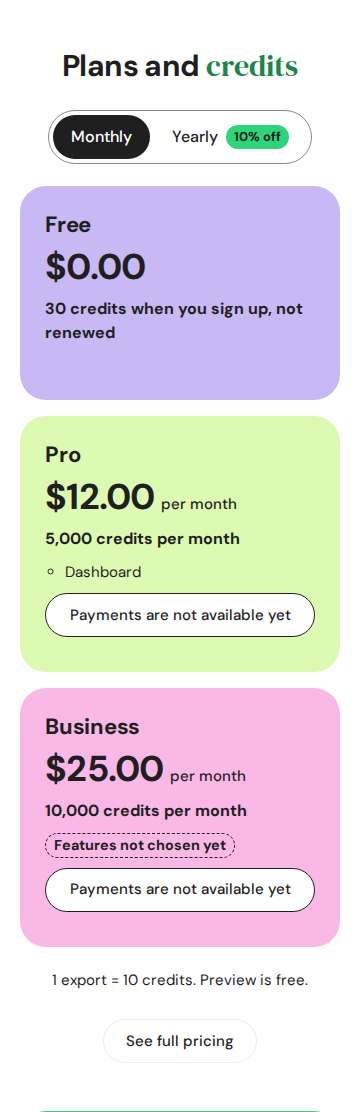
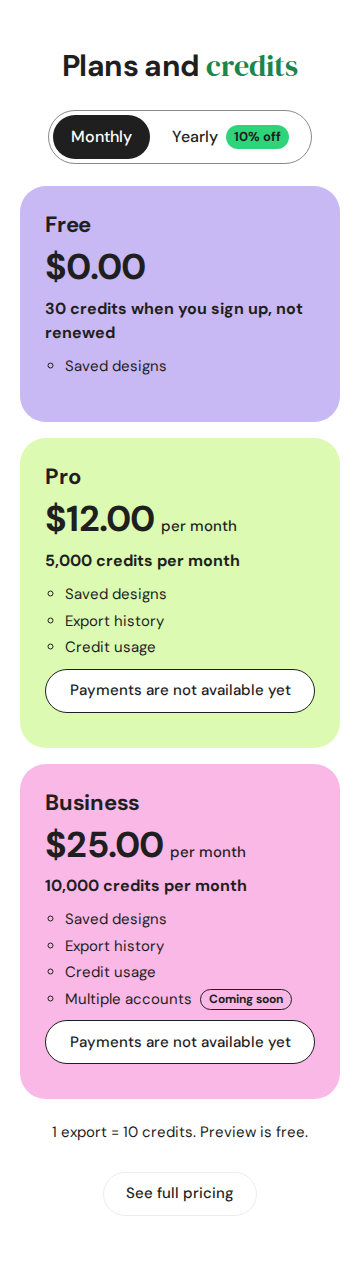
Plan features from config: key, name, coming-soon tag
Free: Saved designs. Pro: + Export history, Credit usage. Business: + Multiple accounts
(Coming soon). The API checks a feature's key; test:pricing checks the names come from
config and are not typed into the pricing components. "Dashboard" is gone.

Claude-Session: https://claude.ai/code/session_01UyZuVeNqbWQ99HSc4PFdeP

Changed region(s): [[0.0306, 0.3058, 0.9472, 0.9478], [0.0306, 0.0306, 0.9472, 0.3058]]

diff --git a/web/src/lib/PlanCards.tsx b/web/src/lib/PlanCards.tsx
@@ -93,7 +93,11 @@ export function PlanCards({ plans, headingLevel = 3 }: { plans: Plans; headingLe
             {plan.features === null
               ? <p className="plan__features-none"><NotChosen what="Features not chosen yet" /></p>
               : plan.features.length > 0 && (
-                <ul className="plan__features">{plan.features.map((f) => <li key={f}>{f}</li>)}</ul>
+                <ul className="plan__features">
+                  {plan.features.map((f) => (
+                    <li key={f.key}>{f.name}{f.status === "coming_soon" && <span className="plan__soon">Coming soon</span>}</li>
+                  ))}
+                </ul>
               )}
             <div className="plan__action"><PlanButton plan={plan} interval={interval} plans={plans} /></div>
           </li>

diff --git a/web/src/css/pricing.css b/web/src/css/pricing.css
@@ -60,7 +60,9 @@
 .plan__amount { font-size: 36px; font-weight: 700; letter-spacing: -0.02em; line-height: 1.1; }
 .plan__per, .plan__equiv { font-size: 15px; font-weight: 500; }
 .plan__credits { font-size: 16px; font-weight: 700; }
-.plan__features { margin: 0; padding-left: 20px; font-size: 15px; }
+.plan__features { margin: 0; padding-left: 20px; font-size: 15px; display: grid; gap: 4px; }
+.plan__soon { display: inline-block; margin-left: 8px; padding: 0 8px; border: 1.5px solid var(--ink); border-radius: var(--radius-pill);
+  font-size: 12px; font-weight: 700; line-height: 1.6; white-space: nowrap; vertical-align: 1px; }
 .plan__action { display: grid; gap: 8px; align-content: end; }
 .plan__cta { width: 100%; }
 .plan__error { font-size: 14px; font-weight: 500; }

diff --git a/web/src/lib/api.ts b/web/src/lib/api.ts
@@ -181,7 +181,8 @@ export type PlanInfo = {
   credits: number | null;
   /** "lifetime" (given once) or "month" (every UTC calendar month). */
   credit_period: string | null;
-  features: string[] | null;
+  /** From config.py; "coming_soon" shows a tag and unlocks nothing yet. null = not chosen. */
+  features: { key: string; name: string; status: "available" | "coming_soon" }[] | null;
 };
 export type Plans = {
   currency: string | null;

diff --git a/api/src/stitchbook_api/plans.py b/api/src/stitchbook_api/plans.py
@@ -67,7 +67,7 @@ def plans(config: Config) -> dict[str, Any]:
     out = []
     for plan in PLAN_IDS:
         monthly = chosen(config, f"billing.plans.{plan}.price_monthly")
-        features = chosen(config, f"billing.plans.{plan}.features")
+        features = plan_features(config, plan)
         priced = monthly is not None and discount is not None
         out.append({
             "id": plan,
@@ -78,7 +78,7 @@ def plans(config: Config) -> dict[str, Any]:
                 ("0.00" if monthly == 0 else None),
             "credits": plan_credits(config, plan),
             "credit_period": chosen(config, "billing.plans.free.credit_period") if plan == "free" else "month",
-            "features": features if isinstance(features, list) else None,
+            "features": features,
         })
     costs = {kind: (chosen(config, f"billing.credit_costs.{kind}")) for kind in operation_kinds(config)}
     packs = chosen(config, "billing.credit_packs")
@@ -96,6 +96,28 @@ def plans(config: Config) -> dict[str, Any]:
     }
 
 
+def plan_features(config: Config, plan: str) -> list[dict[str, str]] | None:
+    """The plan's features from config: [{"key", "name", "status"}] ("available" or
+    "coming_soon"); None while not chosen."""
+    raw = chosen(config, f"billing.plans.{plan}.features")
+    if not isinstance(raw, list):
+        return None
+    out = []
+    for item in raw:
+        if not isinstance(item, dict) or not item.get("key") or not item.get("name"):
+            raise ValueError(f"billing.plans.{plan}.features: every entry needs a key and a name")
+        status = item.get("status", "available")
+        if status not in ("available", "coming_soon"):
+            raise ValueError(f"billing.plans.{plan}.features: unknown status {status!r}")
+        out.append({"key": str(item["key"]), "name": str(item["name"]), "status": status})
+    return out
+
+
+def has_feature(config: Config, plan: str, key: str) -> bool:
+    """True if the plan lists this feature as available (a "coming_soon" one does not count)."""
+    return any(f["key"] == key and f["status"] == "available" for f in plan_features(config, plan) or [])
+
+
 def month_start(now: datetime | None = None) -> datetime:
     """Start of the current UTC calendar month (the plan allowance period)."""
     now = now or datetime.now(timezone.utc)
@@ -107,5 +129,5 @@ def month_end(start: datetime) -> datetime:
     return start.replace(year=start.year + 1, month=1) if start.month == 12 else start.replace(month=start.month + 1)
 
 
-__all__ = ["PLACEHOLDER", "PLAN_IDS", "chosen", "credit_cost", "month_end", "month_start", "operation_kinds",
+__all__ = ["PLACEHOLDER", "PLAN_IDS", "chosen", "credit_cost", "has_feature", "plan_features", "month_end", "month_start", "operation_kinds",
            "per_month_of_yearly", "plan_credits", "plan_name", "plans", "yearly_price"]

diff --git a/digitizer/src/digitizer/config.py b/digitizer/src/digitizer/config.py
@@ -299,15 +299,31 @@ PRODUCT: dict[str, dict[str, Any]] = {
         # allowance, granted month by month).
         "plans.pro.credits_per_month": 5000,
         "plans.business.credits_per_month": 10000,
-        # Features listed on a plan's card. Only what exists; nothing else is claimed.
-        "plans.free.features": [],
-        "plans.pro.features": ["Dashboard"],
-        "plans.business.features": PLACEHOLDER,
+        # Features listed on a plan's card, in order, AND what each plan may use: the API checks
+        # a feature's "key" (export_history -> GET /exports, credit_usage -> GET /credits/usage,
+        # teams -> the Team page). "name" is the text shown; "status": "coming_soon" shows a small
+        # "Coming soon" tag and does NOT unlock the feature yet. Only what exists is listed.
+        "plans.free.features": [
+            {"key": "saved_designs", "name": "Saved designs"},
+        ],
+        "plans.pro.features": [
+            {"key": "saved_designs", "name": "Saved designs"},
+            {"key": "export_history", "name": "Export history"},
+            {"key": "credit_usage", "name": "Credit usage"},
+        ],
+        "plans.business.features": [
+            {"key": "saved_designs", "name": "Saved designs"},
+            {"key": "export_history", "name": "Export history"},
+            {"key": "credit_usage", "name": "Credit usage"},
+            {"key": "teams", "name": "Multiple accounts", "status": "coming_soon"},
+        ],
         # Accounts per Business subscription. Not built (Step 13b: Teams); never shown as a claim.
         "plans.business.seats": PLACEHOLDER,
         # Yearly billing: the yearly price is monthly x 12 x (1 - this/100), computed in code
         # (Pro 129.60, Business 270.00), never typed in anywhere.
         "yearly_discount_percent": 10,
+        # Export history and Credit usage: rows per page (the API pages newest first).
+        "history_page_size": PLACEHOLDER,
         # Credits each metered operation costs. 0 or PLACEHOLDER = free and nothing is reserved.
         # The list of operation kinds is the keys here. Preview is never metered.
         "credit_costs.export": 10,
@@ -406,6 +422,7 @@ TEST_RUN_OVERRIDES: dict[str, Any] = {
     "jobs.status_timeout_s": 10,
     "billing.reservation_timeout_s": 600,
     "billing.sweep_interval_s": 60,
+    "billing.history_page_size": 20,
     "auth.jwks_cache_s": 300,
     "auth.http_timeout_s": 10,
     "editor.edit_point_tolerance_mm": 0.5,

diff --git a/api/tests/test_plans.py b/api/tests/test_plans.py
@@ -26,9 +26,12 @@ def test_plans_are_read_from_config_with_owner_values():
     by_id = {p["id"]: p for p in data["plans"]}
     assert [p["id"] for p in data["plans"]] == ["free", "pro", "business"]
     assert by_id["pro"] == {**by_id["pro"], "name": "Pro", "price_monthly": "12.00", "price_yearly": "129.60",
-                            "price_yearly_per_month": "10.80", "credits": 5000, "features": ["Dashboard"]}
+                            "price_yearly_per_month": "10.80", "credits": 5000}
+    names = {p["id"]: [(f["name"], f["status"]) for f in p["features"]] for p in data["plans"]}
+    assert names["free"] == [("Saved designs", "available")]
+    assert names["pro"] == [("Saved designs", "available"), ("Export history", "available"), ("Credit usage", "available")]
+    assert names["business"][:3] == names["pro"]
     assert by_id["business"]["price_yearly"] == "270.00" and by_id["business"]["credits"] == 10000
-    assert by_id["business"]["features"] is None  # placeholder: nothing claimed
     assert by_id["free"]["credits"] == 30 and by_id["free"]["credit_period"] == "lifetime"
     assert data["yearly_discount_percent"] == 10 and data["currency"] == "USD"
     assert data["credit_costs"] == {"export": 10, "satin_columns": None, "auto_digitize": None}
@@ -52,3 +55,14 @@ def test_utc_month_window():
     start = plans.month_start(datetime(2026, 12, 31, 23, 59, tzinfo=timezone.utc))
     assert start == datetime(2026, 12, 1, tzinfo=timezone.utc)
     assert plans.month_end(start) == datetime(2027, 1, 1, tzinfo=timezone.utc)
+
+
+def test_features_decide_what_a_plan_may_use():
+    assert not plans.has_feature(CONFIG, "free", "export_history")
+    assert plans.has_feature(CONFIG, "pro", "export_history") and plans.has_feature(CONFIG, "pro", "credit_usage")
+    assert plans.has_feature(CONFIG, "business", "credit_usage")
+    soon = CONFIG.with_overrides({"billing.plans.pro.features": [{"key": "export_history", "name": "Export history",
+                                                                   "status": "coming_soon"}]})
+    assert not plans.has_feature(soon, "pro", "export_history")  # "coming soon" unlocks nothing
+    unset = CONFIG.with_overrides({"billing.plans.pro.features": plans.PLACEHOLDER})
+    assert plans.plan_features(unset, "pro") is None and not plans.has_feature(unset, "pro", "export_history")
